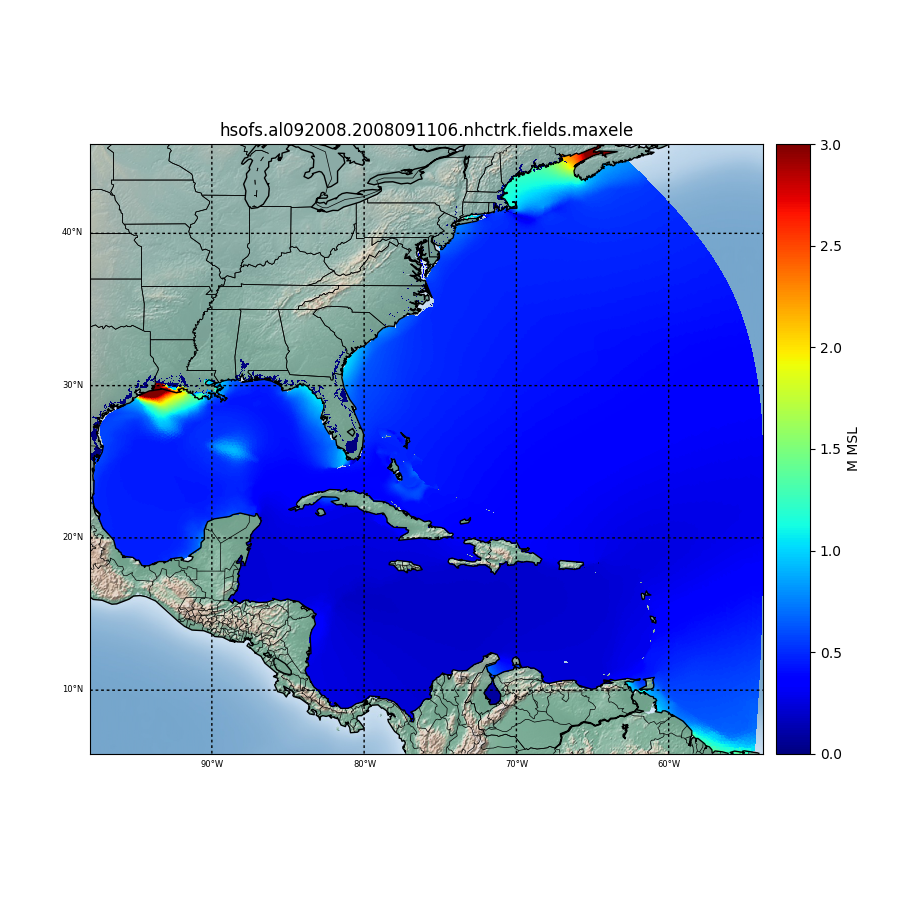
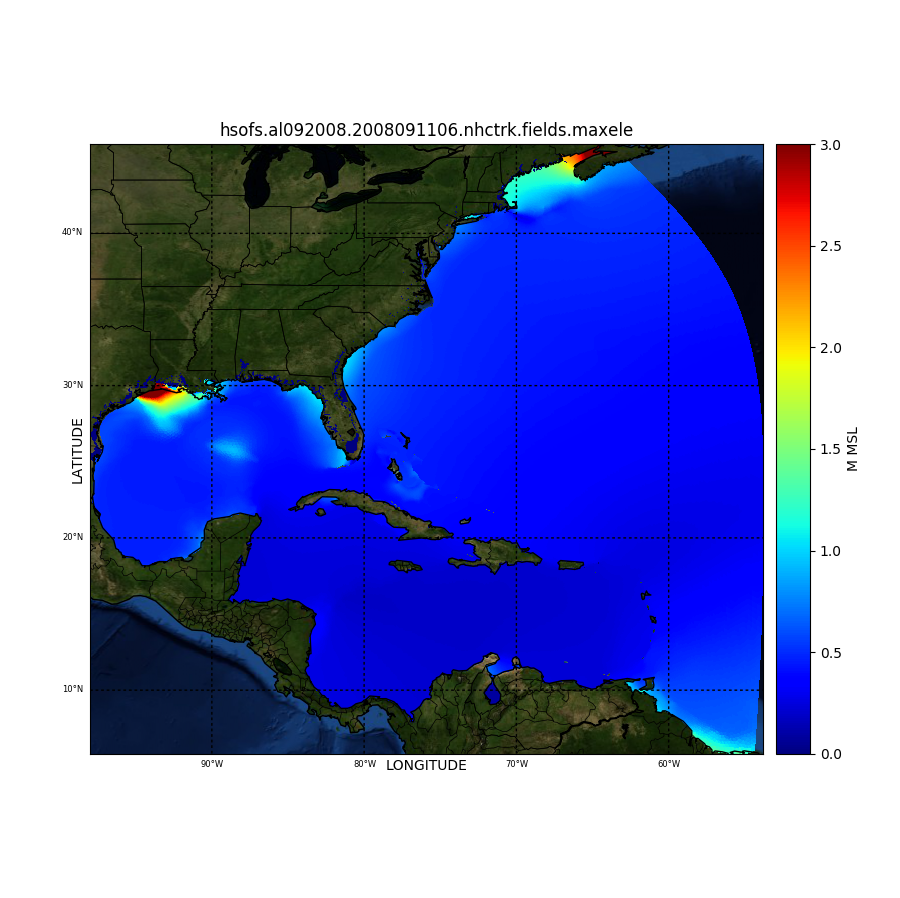
Incremental improvements

diff --git a/plotter/plotter.py b/plotter/plotter.py
@@ -21,7 +21,8 @@ def plotScatter ():
 #==============================================================================
 """
 """
-def plot2DFieldOnMap ( grid, maxele, titleStr='', saveFig=None):
+def plot2DFieldOnMap ( grid, maxele, titleStr='', saveFig=None, 
+                      clim=[0.0, 3.0]):
     
     print '[info]: plotting ' + titleStr    
     lon       = grid['lon']
@@ -32,6 +33,7 @@ def plot2DFieldOnMap ( grid, maxele, titleStr='', saveFig=None):
     
     # Set mask 
     # TODO : Optimize this following loop
+    #
     mask = np.ones(len(Tri.triangles), dtype=bool)
     count = 0
     for t in Tri.triangles:
@@ -52,10 +54,11 @@ def plot2DFieldOnMap ( grid, maxele, titleStr='', saveFig=None):
     m.drawparallels(parallels,labels=[1,0,0,0],fontsize=6)
     meridians = np.arange(-180,180,10)
     m.drawmeridians(meridians,labels=[0,0,0,1],fontsize=6)
-    m.shadedrelief()
+    m.bluemarble() #m.shadedrelief()
     plt.title(titleStr)
+    plt.xlabel('LONGITUDE')
+    plt.ylabel('LATITUDE')
     
-    clim = [0, 3.0]
     myCmap = plt.cm.jet
     cs   = plt.tripcolor(Tri, z, shading='flat',\
                          edgecolors='none', \
